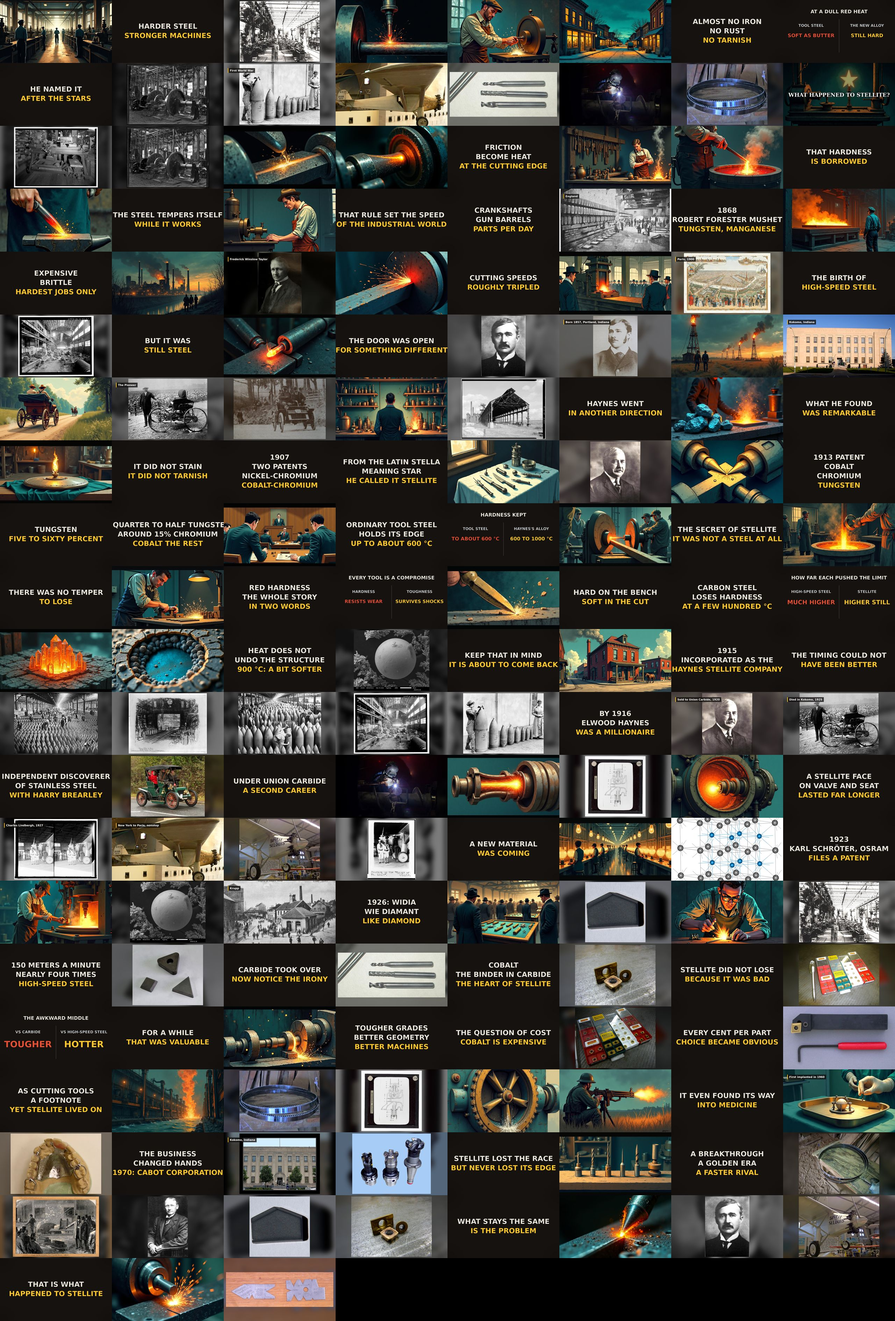
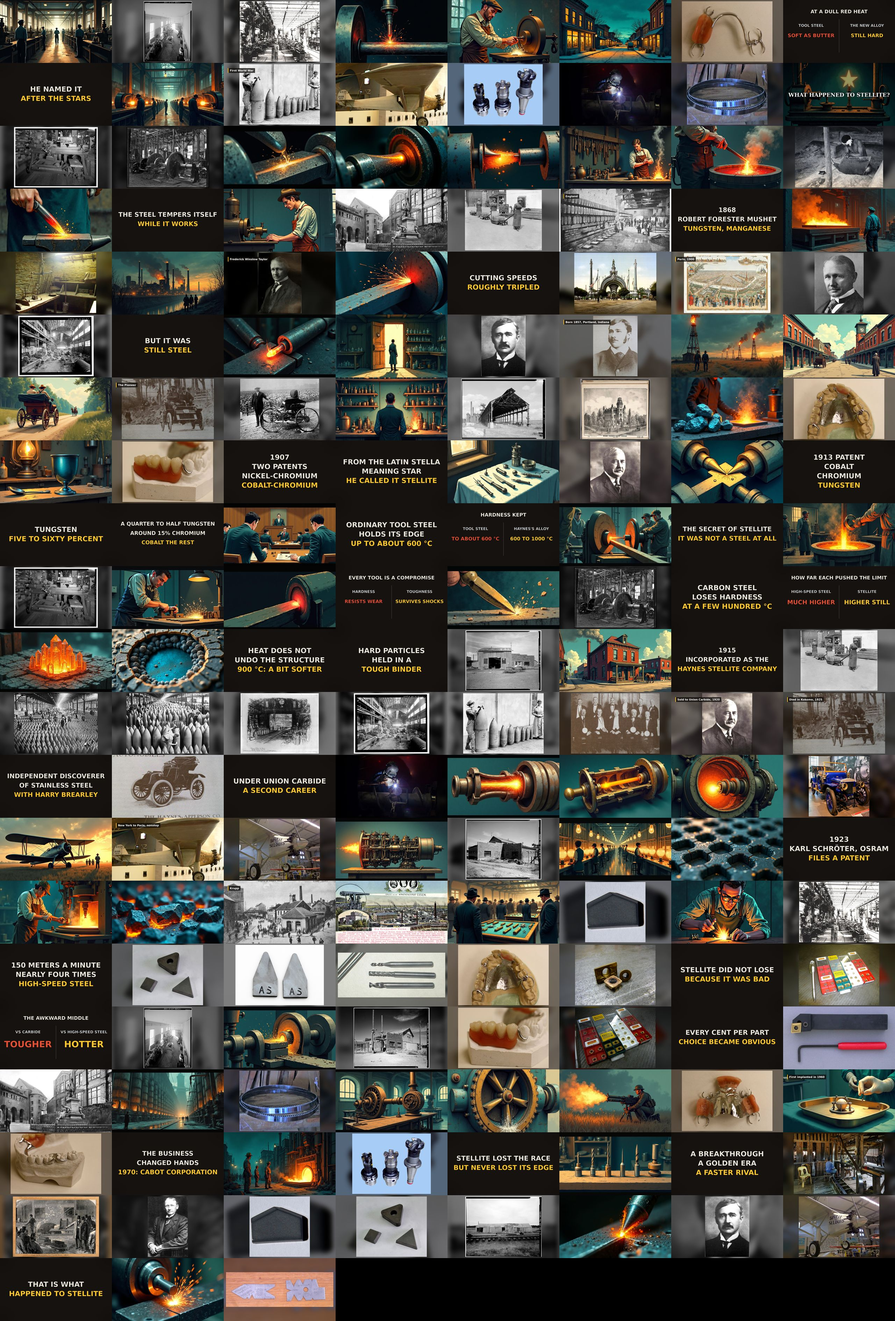
shots 001: shot list and visual check

diff --git a/docs/learnings.md b/docs/learnings.md
@@ -7,3 +7,11 @@
 - Do not use stereo pairs or doubled scans, or the same photo more than twice in an episode.
 - Use a words card instead of a microscope or crystal-diagram photo; the viewer cannot read them.
 - Check illustrations for stray signatures in the corner; retry with a new seed.
+- Fetch more relevant photos per topic (cars, dentures, valves, sawmills, factories); too few photos forces generic filler or too many cards.
+- State aircraft type (monoplane/biplane) and era in illustration prompts; the model drifts to the wrong machine.
+- Count words cards while writing the shot list; keep them to about 1 in 5 from the start.
+- Do not put the same product photo (e.g. inserts) in shots within 30 of each other; give each section its own photo set.
+- Re-check any shot whose prompt changed in the previous pass; the QA sheet may show the stale picture.
+- Do not use product photos with hand-scratched letters or stamps visible (e.g. "AS" on carbide tips).
+- A words card must only repeat what its narration sentence says.
+- Generic HAER shed exteriors carry no meaning; prefer interiors or illustrations for "machine shop" lines.
